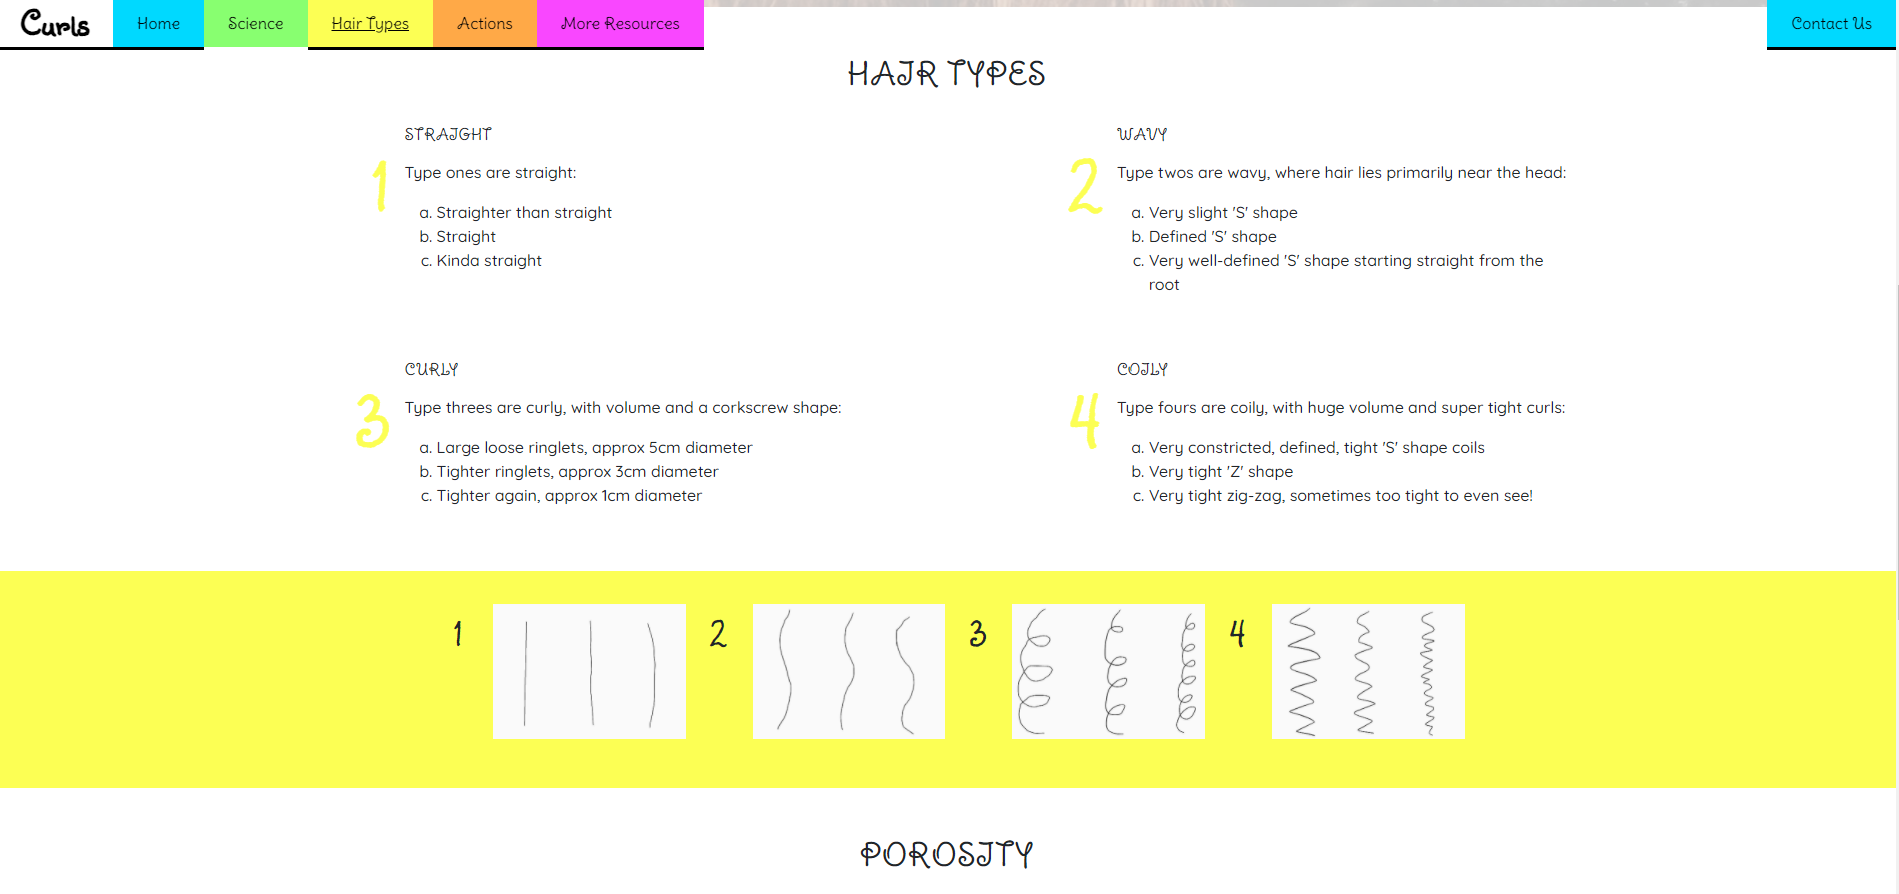
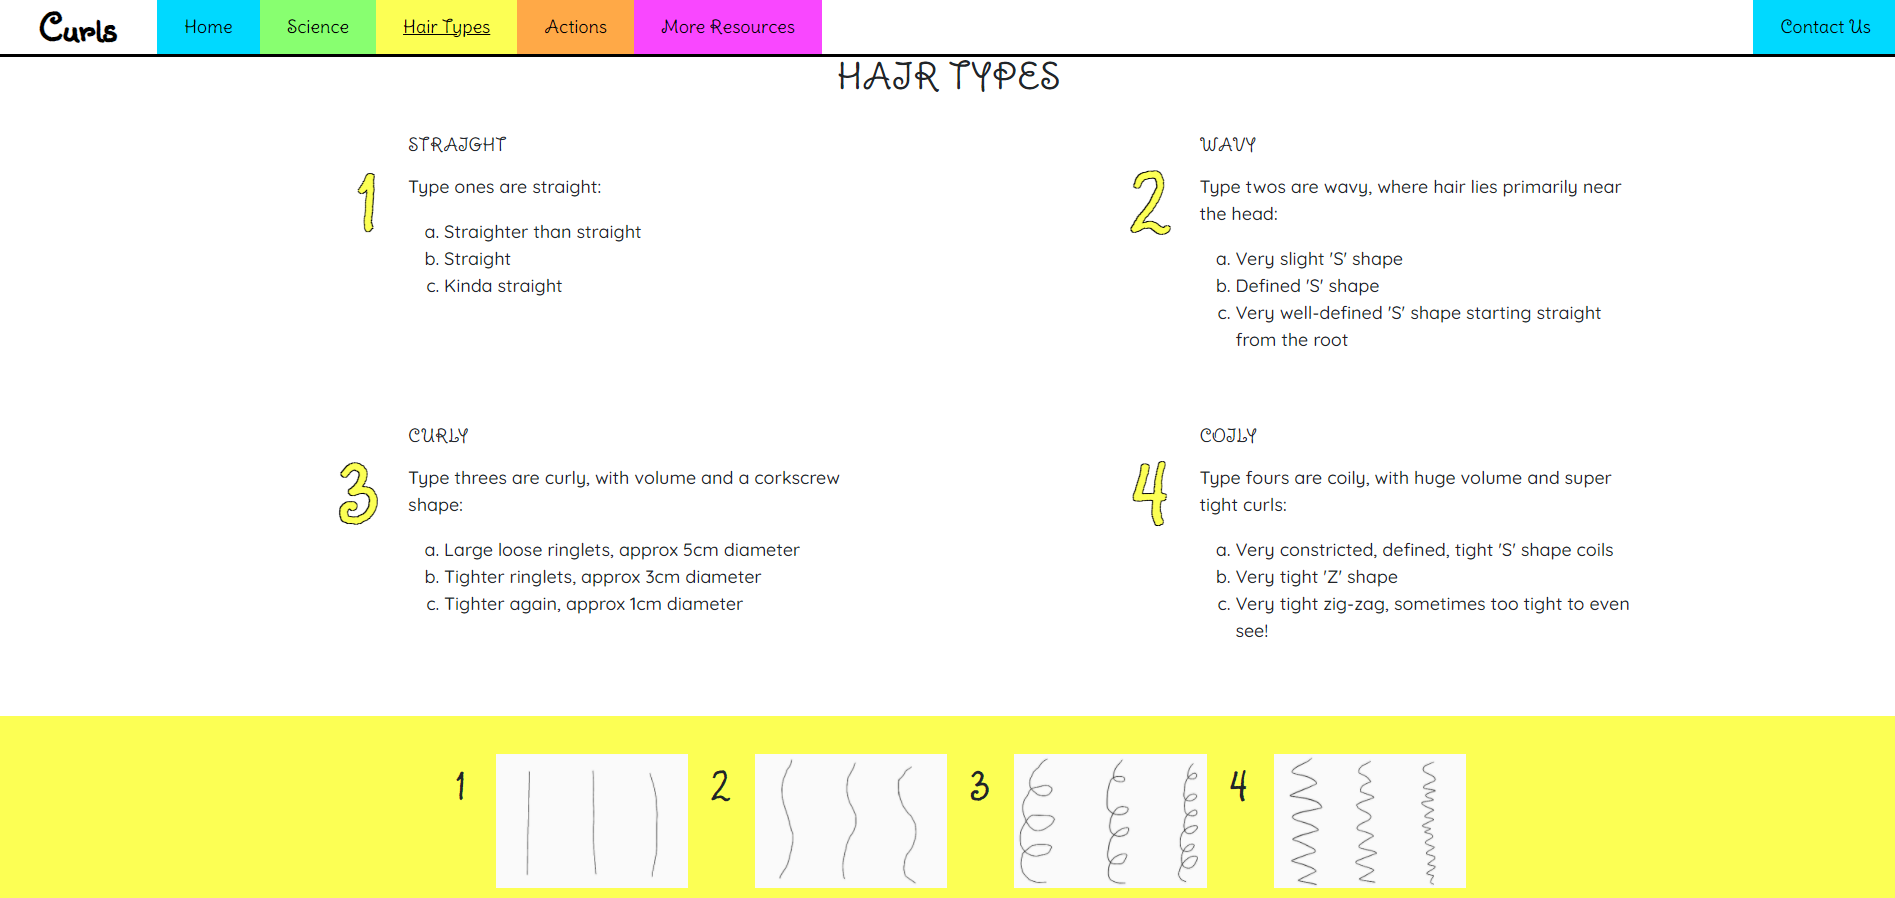
Update TESTING and screenshots.

diff --git a/TESTING.md b/TESTING.md
@@ -277,6 +277,13 @@ Contact Us Form
 
 ---
 
+### **Accessibility**
+
+The colourblind feature on Coolors was used to check that the colours appeared sufficiently different, and not jarring for these users.
+![Colourblindness assessment via Coolors](assets/readme-images/colourblindness.png)
+
+As well as the use of the Lighthouse assessments of accessibility, the website was browsed at intervals by two users who may experience difficulty.  A dyslexic user with ASD and a colourblind user both reported easy use of the site.
+
 ## Bugs
 
 Details of any persistent or difficult bugs, and any bugs which remain unresolved.
@@ -320,6 +327,26 @@ The code was copied into the contact page for this project (attributed in code a
 
 The form now validates properly, and the modal only displays when appropriate.
 
+#### Nav Restructure
+
+In the final mentoring session it was determined that the transparency of the nav background was not in keeping with the rest of the site, appearing grey, and that the partial border of the nav did not fully reflect the footer.  It was decided to make the nav solid white and to complete the nav border to fully bookend the site.
+![Nav prior to changes](assets/readme-images/mid-nav-change.png)
+
+Two approaches to this were discussed, somehow adding a border to the blank space between the nav proper and the contact link, or adding a border to the nav container and using a different variety of user feedback on hover.
+
+The first approach, to complete the existing border, was attempted by adding filler elements between More Resources and Contact Us, but these were always restricted in size or distorted the placement of the other elements.  Varios Flex and spacing/arrangement/justify classes were tried form Bootstrap 5 documentation but nothing in the nav responded to these classes.
+
+The second approach was therefore decided upon, to replace the partial border providing responsive behaviour with a full border and decide on another hover effect.  However, on addition of the bottom border to any page wide element (nav/div/container etc) a very, very thin line would appear just above the new border, in the same colours as the nav background.  All elements were inspected in Lighthouse for margin which may be overflowing past the container but not visible, but nothing was detected.  Attempts to incorporate this line into the design looked obviously like a bug cover up.
+![Thin line showing on nav border addition](assets/readme-images/nav-redesign.png)
+
+Tutor support was sought at this time, and a potential workaround identified in that it a border-top applied to a following element displayed correctly.  It was hoped that the addition of a div to the end of the nav section with a border top applied would work with the sticky nav, but it was not possible to make the new div full width.
+
+The respository was then branched and the nav completely stripped of components one by one until the responsive Bootstrap flex classes began to work, and then cautiously added back until these stopped responding.  It became apparent that the Bootstrap [Navbar](https://getbootstrap.com/docs/5.0/components/navbar/) component structure was not responsive to the arrangement classes in the same way the [Navs & tabs](https://getbootstrap.com/docs/5.0/components/navs-tabs/) navs were.
+
+The nav was rebuilt using the navs and tabs classes to ensure accessibility and preservation of semantic markup.  The [collapse](https://getbootstrap.com/docs/5.0/components/collapse/) component was used to collapse the nav to hamburger on all viewport sizes to large, and a media query to then show the nav in full.  Flex classes were used to stack the links in mobile/tablet view from the hamburger and then in row view on PC and laptop.  The flex Justify class was used to spread the components across the navbar and ensure the border was 100% width of the screen, but the sections appeared oddly stretched and unappealing.  A div was added to the navbar between li elements and given the justify class to fill the blank space with an empty element which could have a border applied.  This div was given aria-hidden=true to prevent it interfering with accessibility.
+
+Passing the new code through the code validator triggered a warning with regard to the improper use of the div element in the middle of an unordered list.  As such, the div was changed to a li element to pass validation, but does have a Bootstrap grid class applied to ensure this does not display on the mobile/tablet stacked nav, which does contravene best practices, but was deemed to be the lesser issue. 
+
 ### **Remaining Bugs**
 
 #### Hamburger Collapse Transition
@@ -330,6 +357,7 @@ The only known remaining bug in the website is that the hamburger menu transitio
 
 The image above shows the brief moment the Contact Us link is left behind by the menu transition.
 
-Testing completed 21/03/2021 - AKH
+Testing first completed 21/03/2021 - AKH
+Testing repeated 27/03/2021 - AKH
 
 [Return to Top](#curls)
